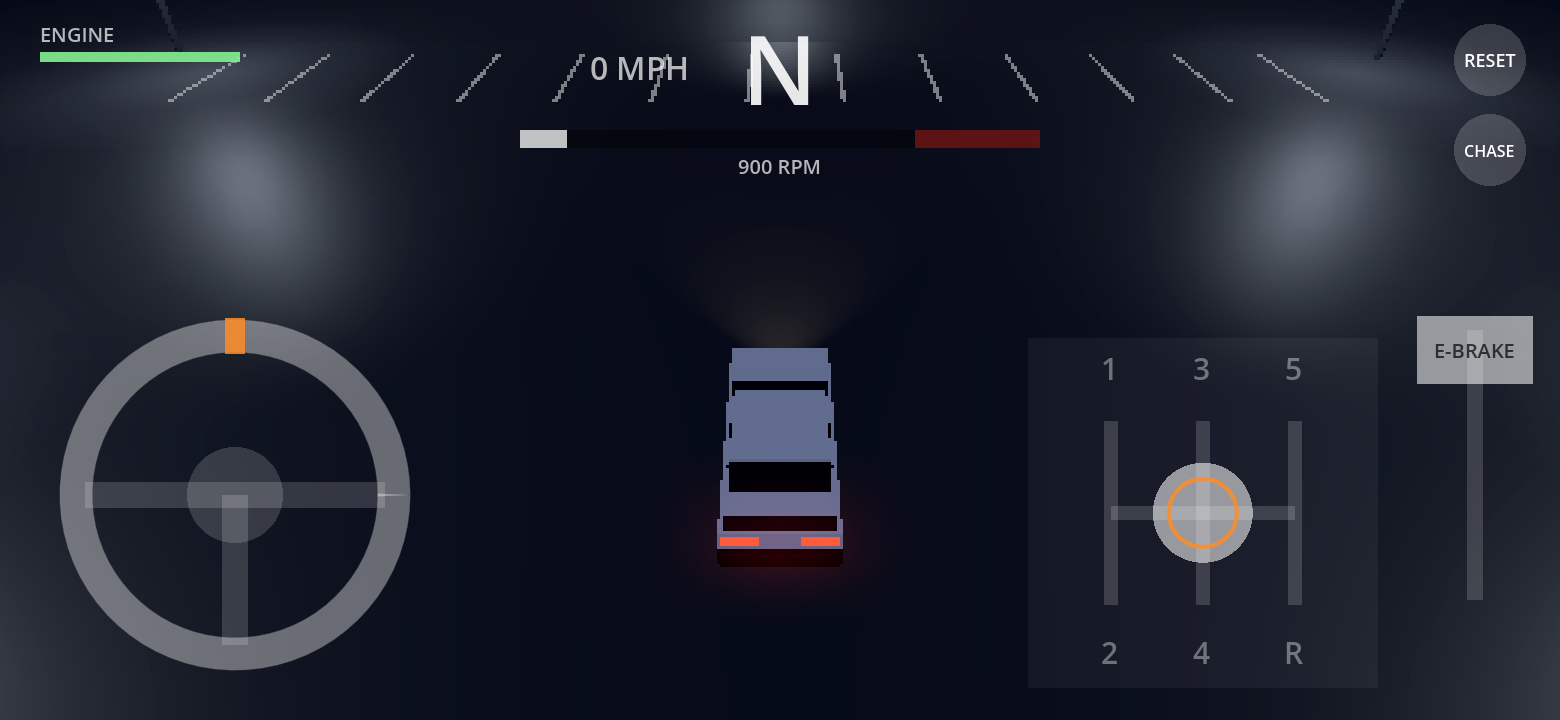
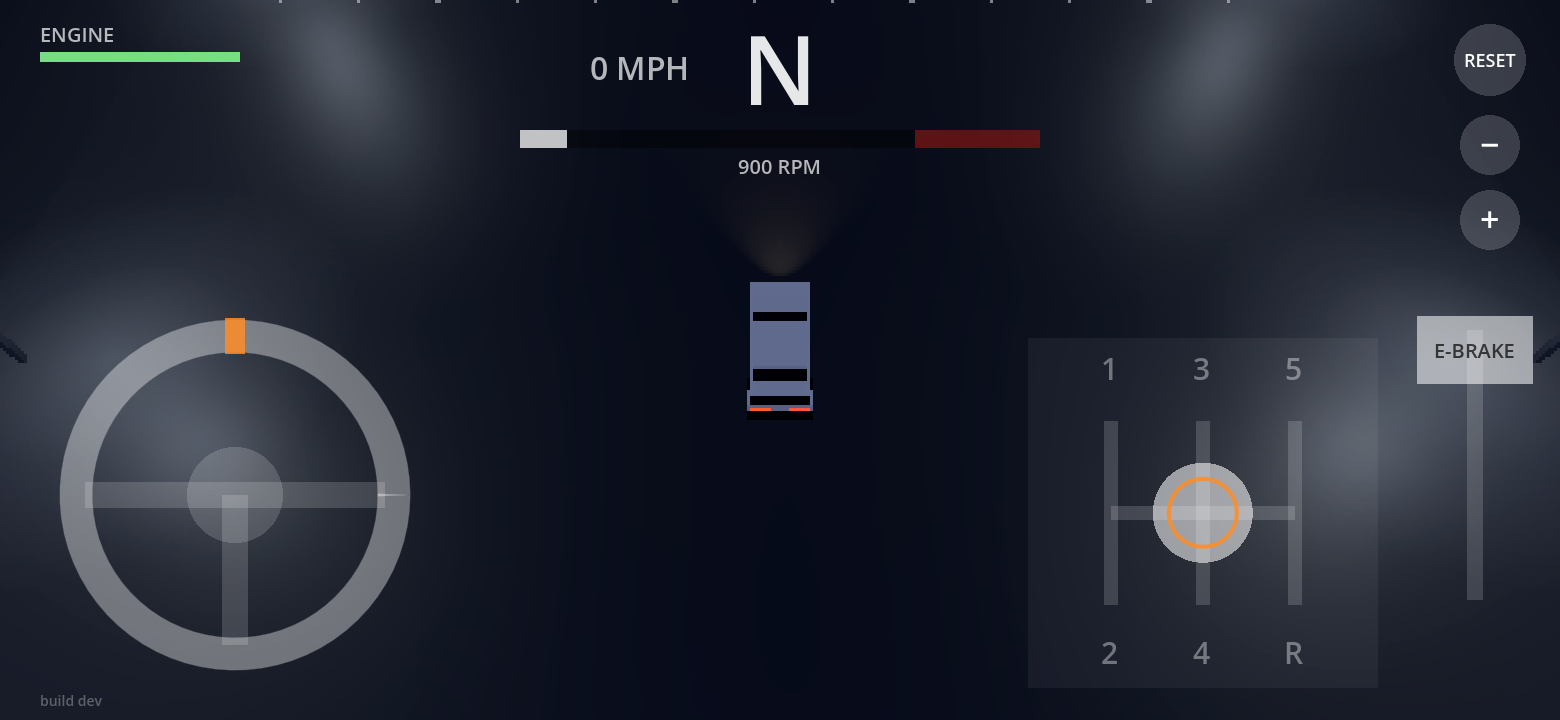
Higher Over the Hill-style camera with pinch and button zoom; fix black smoke blob
- One camera that blends from close (44°) to far and nearly top-down (68°)
- Pinch on empty screen, -/+ buttons, mouse wheel, gamepad Y/X; zoom is saved
- Idle smoke particles were drawing as black quads under the car
  (billboard without keep_scale); fixed, and smoke now scales properly

Claude-Session: https://claude.ai/code/session_01X5D3N9oUK59uFhYSHv3wU5

diff --git a/README.md b/README.md
@@ -33,7 +33,7 @@ Built in Godot 4.7.
 | Steer | Twist the wheel (bottom-left). Let go and it spins back to center | A / D or arrows | Left stick |
 | Shift | Drag the knob through the H gate (bottom-right) | 1-5, N or 0, R | R1 up / L1 down |
 | E-brake | Pull the lever down (far right) | Space | B or L2 |
-| Camera angle | CHASE / HIGH / TOP button (top-right) | C | Y |
+| Zoom | Pinch anywhere empty, or the − / + buttons (top-right) | - / = or mouse wheel | Y / X |
 | Reset | RESET (top-right) | Enter | Start |
 
 - **The gas is always on** whenever you're in gear.
@@ -57,7 +57,7 @@ Everything is built in code from `scripts/main.gd`, no scene editing needed.
 | `scripts/hud.gd` | Gear, tach, speed, engine health, drift points |
 | `scripts/neighborhood.gd` | The night suburb and street lights |
 | `scripts/car_model.gd` | Placeholder car, skid marks, smoke, brake lights |
-| `scripts/chase_camera.gd` | Chase / high / top-down camera that follows where you're sliding |
+| `scripts/chase_camera.gd` | High chase camera with zoom (remembered between sessions) |
 | `scripts/haptics.gd` | Vibration on gear changes |
 | `tests/test_drive.gd` | Automated test: launches, shifts, drifts, blows the engine |
 
